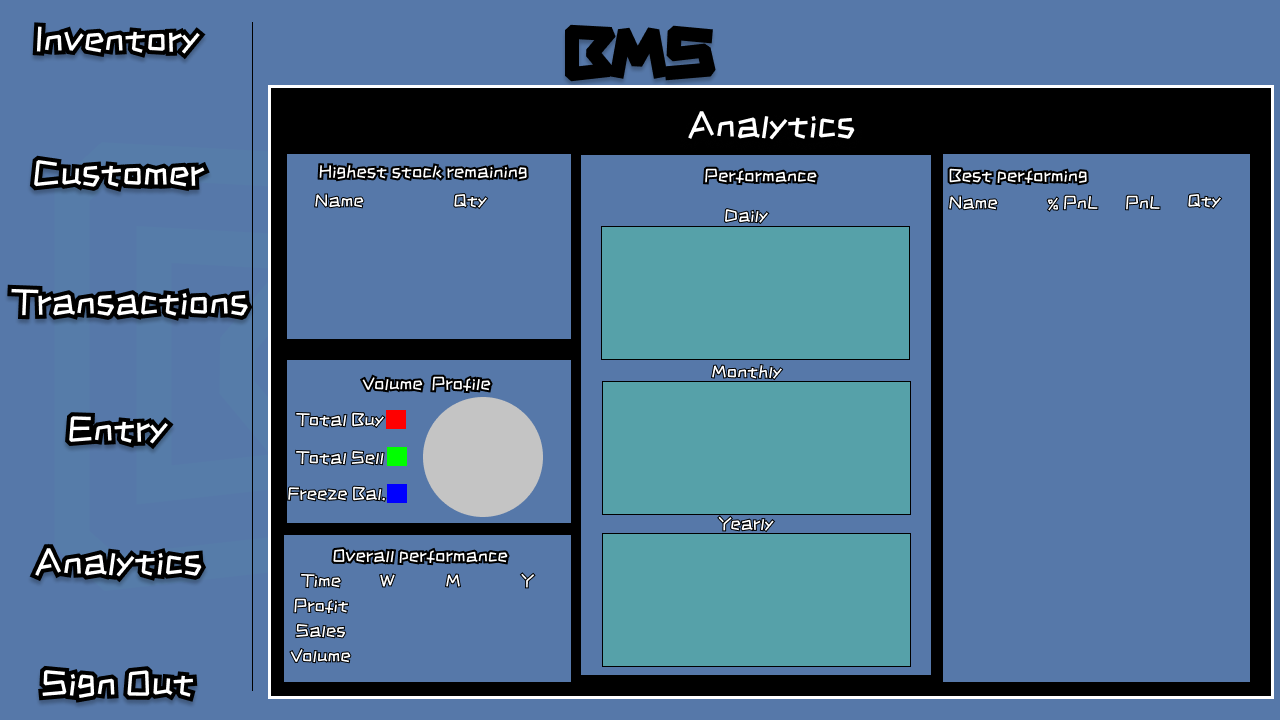
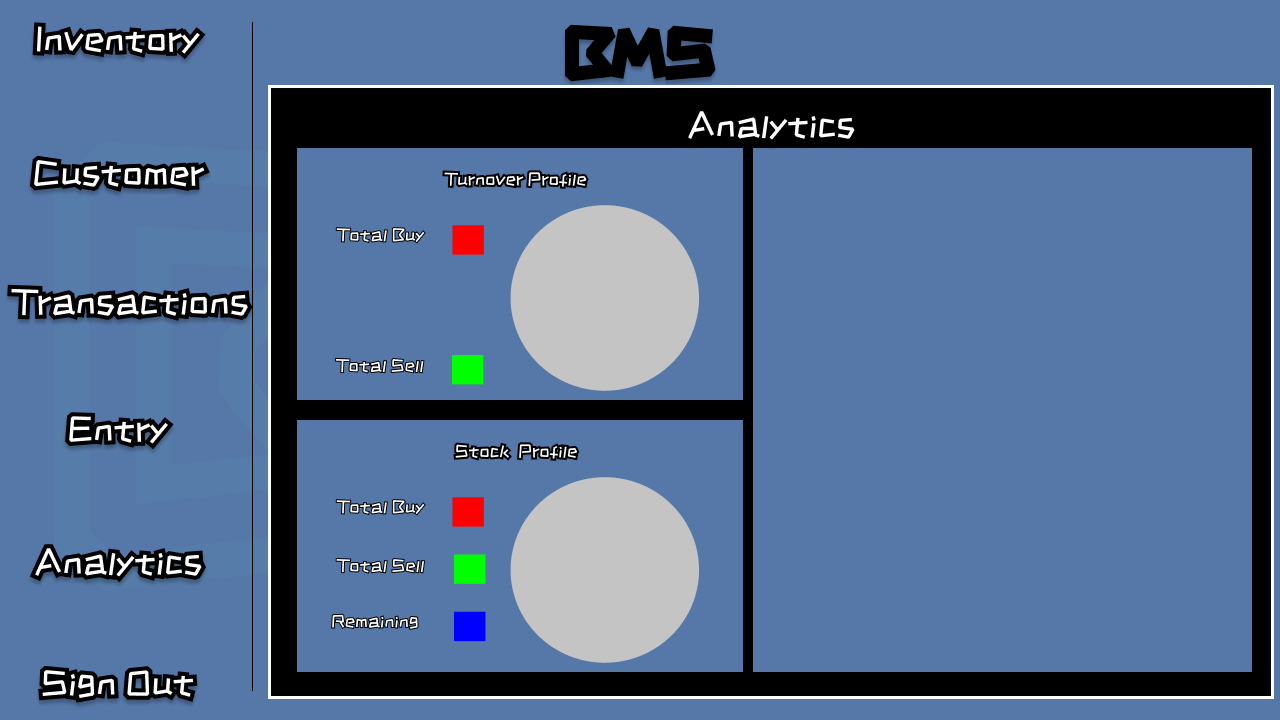
Added visuals to Transaction and Inventory pages, added pie charts to the analytics page

Changed region(s): [[0.2188, 0.1833, 1.0, 0.9472]]

diff --git a/titlepage.py b/titlepage.py
@@ -209,6 +209,16 @@ def register_page_function():
                     )"""
             )
             b.commit()
+            c.execute(
+                "INSERT INTO volume_profile VALUES(:buy_volume, :sell_volume, :buy_qty, :sell_qty)",
+                {
+                    "buy_volume": 0,
+                    "sell_volume": 0,
+                    "buy_qty": 0,
+                    "sell_qty": 0,
+                },
+            )
+            b.commit()
             b.close()
 
     def back_btnnm():
@@ -488,6 +498,37 @@ def analytics_function():
 
     Label(home_page, image=home_page_image).place(x=-1, y=-1)
 
+    s = sqlite3.connect(f'databases/{current_sign_in}.db')
+    c = s.cursor()
+    c.execute(
+        "SELECT * FROM volume_profile"
+    )
+    g = c.fetchall()
+    h = g[0]
+    print(h)
+    f = h[0] + h[1]
+    if f == 0:
+        f +=1
+    angle_f = (360 * h[0]) / f
+    angle_g = (360 * h[1]) / f
+    canvas = Canvas(home_page, width=190, height=185, bg="#5678A9", highlightthickness=0)
+    canvas.place(x=511, y=206)
+    canvas.create_arc((0, 0, 190, 185), fill="#ff0000", outline="#ff0000", start=0, extent=angle_f)
+    canvas.create_arc((0, 0, 190, 185), fill="#00ff00", outline="#00ff00", start=angle_f, extent=angle_g)
+
+    if h[2] == 0:
+        h[2] = 1
+    h_3 = h[3]-h[2]
+    f_1 = h[2] + h[3] + h_3
+    angle_f_1 = (60 * h[2]) / f_1
+    angle_g_1 = (360 * h[3]) / f_1
+    angle_h_1 = (360 * h_3) / f_1
+    canvas = Canvas(home_page, width=190, height=186, bg="#5678A9", highlightthickness=0)
+    canvas.place(x=511, y=477)
+    canvas.create_arc((0, 0, 190, 185), fill="#ff0000", outline="#ff0000", start=0, extent=angle_f_1)
+    canvas.create_arc((0, 0, 190, 185), fill="#00ff00", outline="#00ff00", start=angle_f_1, extent=angle_g_1)
+    canvas.create_arc((0, 0, 190, 185), fill="#0000ff", outline="#0000ff", start=(angle_g_1+angle_f_1),
+                      extent=angle_h_1)
     Button(
         home_page,
         image=analytics_img,
@@ -659,14 +700,14 @@ def customers_function():
                 x=750, y=place_location
             )
             Label(sb_frame, text=detail_number[6], bg="#5678A9", font=10).place(
-                x=890, y=place_location
+                x=875, y=place_location
             )
             place_location += 30
 
 
 def entry_function():
     global home_page_image, class_frame_img, analytics_img, customers_img, entry_img, inventory_img, transactions_img
-    global sign_out_img, entry_details, add_transaction_button, add_button, remove_button
+    global sign_out_img, entry_details, add_transaction_button, add_button, remove_button, error_img, success_img
 
     home_page = LabelFrame(root)
     home_page.destroy()
@@ -740,7 +781,7 @@ def entry_function():
         home_page, text=item_remove_entry, bg="#5A67A8", bd=0, font=8, width=21
     )
 
-    transaction_code_entry = Entry(
+    transaction_code_remove_entry = Entry(
         home_page, text=transaction_code_entry, bg="#5A67A8", bd=0, font=8, width=21
     )
 
@@ -748,7 +789,7 @@ def entry_function():
     price_per_unit_entry.place(x=340, y=548)
     item_add_entry.place(x=830, y=228)
     item_remove_entry.place(x=830, y=414)
-    transaction_code_entry.place(x=830, y=597)
+    transaction_code_remove_entry.place(x=830, y=597)
 
     add_transaction_button = PhotoImage(file="Images/add_transaction_button.png")
     add_button = PhotoImage(file="Images/add_button.png")
@@ -893,10 +934,27 @@ def entry_function():
         user_info.commit()
 
     def remove_transaction_click():
-        pass
+        global success_img
+        success_img = PhotoImage(file="Images/success_label.png")
+        user_file = sqlite3.connect(f"databases/{current_sign_in}.db")
+        c = user_file.cursor()
+        c.execute(
+            f"DELETE FROM transaction_history WHERE transaction_id={transaction_code_entry.get()}"
+        )
+        user_file.commit()
+        Label(home_page, image=success_img, bg="#5678A9").place(x=1118, y=630)
+
 
     def remove_item_click():
-        pass
+        global success_img
+        success_img = PhotoImage(file="Images/success_label.png")
+        user_file = sqlite3.connect(f"databases/{current_sign_in}.db")
+        c = user_file.cursor()
+        c.execute(
+            f"DELETE FROM inventory WHERE item_name='{item_remove_entry.get()}'"
+        )
+        user_file.commit()
+        Label(home_page, image=success_img, bg="#5678A9").place(x=1108, y=453)
 
     Button(
         home_page,
@@ -1042,6 +1100,43 @@ def inventory_function():
         activebackground="#5678A9",
     ).place(x=35, y=664)
 
+    c = sqlite3.connect(f"databases/{current_sign_in}.db")
+    b = c.cursor()
+    b.execute("SELECT * FROM inventory")
+    d = b.fetchall()
+    item_details_label = LabelFrame(home_page, bg="#5678A9").place(x=292, y=206)
+    canvas_display = Canvas(item_details_label, bg="#5678A9")
+    canvas_display.place(x=292, y=206, width=956, height=476)
+    sb = Scrollbar(item_details_label, orient=VERTICAL, command=canvas_display.yview)
+    sb.place(relx=1, rely=0, relheight=1, anchor='ne')
+    canvas_display.configure(yscrollcommand=sb.set)
+    canvas_display.bind('<Configure>', lambda e: canvas_display.configure(scrollregion=canvas_display.bbox("all")))
+    sb_frame = Frame(canvas_display)
+    sb_frame.config(bg="#5678A9")
+    canvas_display.create_window((0, 0), height=(len(d) * 30 + 11), width=966, window=sb_frame)
+    canvas_display.config(bg='#5678A9')
+
+    for details in range(1, len(d)):
+        place_location = 10
+        print(details)
+        for detail_number in d:
+            Label(sb_frame, text=detail_number[0], bg="#5678A9", font=10).place(
+                x=10, y=place_location
+            )
+            Label(sb_frame, text=detail_number[1], bg="#5678A9", font=10).place(
+                x=190, y=place_location
+            )
+            Label(sb_frame, text=detail_number[2], bg="#5678A9", font=10).place(
+                x=380, y=place_location
+            )
+            Label(sb_frame, text=detail_number[4], bg="#5678A9", font=10).place(
+                x=650, y=place_location
+            )
+            Label(sb_frame, text=detail_number[3], bg="#5678A9", font=10).place(
+                x=830, y=place_location
+            )
+            place_location += 30
+
 
 def transactions_function():
     global home_page_image
@@ -1053,12 +1148,55 @@ def transactions_function():
 
     home_page = LabelFrame(root).place(x=0, y=0)
 
-    home_page_image = PhotoImage(file="Images/homepage.png")
+    home_page_image = PhotoImage(file="Images/transaction_hisotry_page_img.png")
 
     Label(home_page, image=home_page_image).place(x=-1, y=-1)
 
-    transactions_frame = LabelFrame(home_page).place(x=265, y=88)
-    Label(transactions_frame, image=transactions_img, bg="#000000").place(x=650, y=106)
+    c = sqlite3.connect(f"databases/{current_sign_in}.db")
+    b = c.cursor()
+    b.execute("SELECT * FROM transaction_history")
+    d = b.fetchall()
+    txn_details_label = LabelFrame(home_page, bg="#5678A9").place(x=292, y=206)
+    canvas_display = Canvas(txn_details_label, bg="#5678A9")
+    canvas_display.place(x=292, y=206, width=956, height=476)
+    sb = Scrollbar(txn_details_label, orient=VERTICAL, command=canvas_display.yview)
+    sb.place(relx=1, rely=0, relheight=1, anchor='ne')
+    canvas_display.configure(yscrollcommand=sb.set)
+    canvas_display.bind('<Configure>', lambda e: canvas_display.configure(scrollregion=canvas_display.bbox("all")))
+    sb_frame = Frame(canvas_display)
+    sb_frame.config(bg="#5678A9")
+    canvas_display.create_window((0, 0), height=(len(d)*30+11), width=966, window=sb_frame)
+    canvas_display.config(bg='#5678A9')
+
+    for details in range(1, len(d)):
+        place_location = 10
+        print(details)
+        for detail_number in d:
+            Label(sb_frame, text=detail_number[0], bg="#5678A9", font=10).place(
+                x=10, y=place_location
+            )
+            Label(sb_frame, text=detail_number[1], bg="#5678A9", font=10).place(
+                x=180, y=place_location
+            )
+            Label(sb_frame, text=detail_number[2], bg="#5678A9", font=10).place(
+                x=280, y=place_location
+            )
+            Label(sb_frame, text=detail_number[5], bg="#5678A9", font=10).place(
+                x=350, y=place_location
+            )
+            Label(sb_frame, text=detail_number[4], bg="#5678A9", font=10).place(
+                x=680, y=place_location
+            )
+            Label(sb_frame, text=detail_number[3], bg="#5678A9", font=10).place(
+                x=580, y=place_location
+            )
+            Label(sb_frame, text=detail_number[7], bg="#5678A9", font=10).place(
+                x=460, y=place_location
+            )
+            Label(sb_frame, text=detail_number[6], bg="#5678A9", font=10).place(
+                x=845, y=place_location
+            )
+            place_location += 30
 
     Button(
         home_page,

diff --git a/checkcodes.py b/checkcodes.py
@@ -1,5 +1,5 @@
 import datetime
-
+from tkinter import *
 import sqlite3
 
 e = datetime.datetime.now()
@@ -13,10 +13,9 @@ print ("The time is now: = %s:%s:%s" % (e.hour, e.minute, e.second))
 print("transaction ID: ' %s%s%s%s%s%s" % (e.year, e.month, e.day, e.hour, e.minute, e.second))
 
 
-user_file = sqlite3.connect('databases/21.db')
-c = user_file.cursor()
-c.execute("SELECT * from inventory")
-d = c.fetchall()
-print(d)
+
+
+
+
 
 
